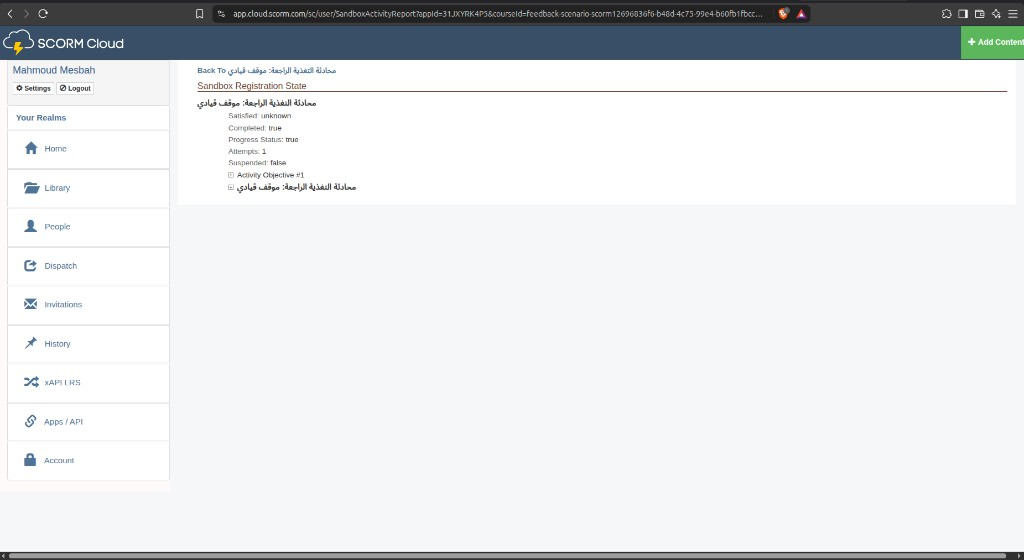
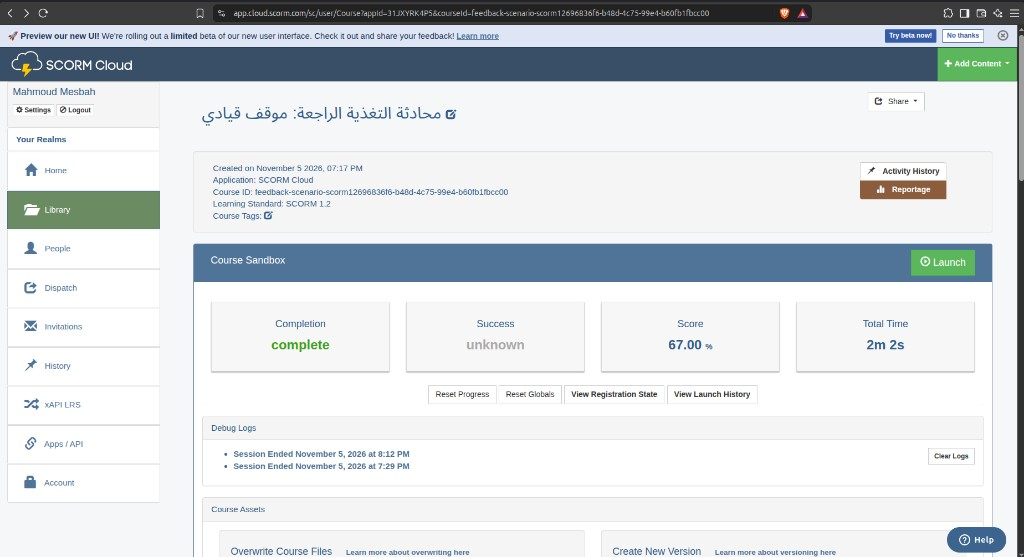
Record the scored SCORM Cloud results.
The feedback run completed at 67 percent, and the safety run failed at 50 percent.

diff --git a/README.md b/README.md
@@ -16,7 +16,7 @@ To run locally, open index.html in a browser. The try links open `feedback-scena
 - `dist/feedback-scenario-scorm12.zip`
 - `dist/safety-challenge-scorm12.zip`
 
-SCORM Cloud was tested with SCORM 1.2 on 5 Nov 2026. The feedback sample should report `completed` plus a score. The safety sample should report `passed` or `failed` against 70. The saved reports are [feedback](media/scorm-feedback-registration.png) (`Completed: true`) and [safety](media/scorm-safety-registration.png) (`Completed: false`, `Satisfied: false`). Neither report shows a score. Moodle is a later check if time allows.
+SCORM Cloud was tested with SCORM 1.2 on 5 Nov 2026. The feedback sample should report `completed` plus a score. The safety sample should report `passed` or `failed` against 70. The saved reports are [feedback](media/scorm-feedback-registration.png) (complete, score 67%) and [safety](media/scorm-safety-registration.png) (failed, score 50%). Moodle is a later check if time allows.
 
 How it was built:
 
@@ -54,7 +54,7 @@ gh release create v1.0 dist/feedback-scenario-scorm12.zip dist/safety-challenge-
 
 يبني `npm run package` الحزمتين `dist/feedback-scenario-scorm12.zip` و`dist/safety-challenge-scorm12.zip`.
 
-تم فحص SCORM Cloud بمعيار SCORM 1.2 في 5 نوفمبر 2026. عينة التغذية الراجعة تُبلّغ `completed` مع درجة. عينة السلامة تُبلّغ `passed` أو `failed` مقابل 70. التقريران المحفوظان: media/scorm-feedback-registration.png (`Completed: true`) وmedia/scorm-safety-registration.png (`Completed: false` و`Satisfied: false`). لا يظهر أي تقرير درجة. Moodle لاحقًا إذا سمح الوقت.
+تم فحص SCORM Cloud بمعيار SCORM 1.2 في 5 نوفمبر 2026. عينة التغذية الراجعة تُبلّغ `completed` مع درجة. عينة السلامة تُبلّغ `passed` أو `failed` مقابل 70. التقريران المحفوظان: media/scorm-feedback-registration.png (مكتمل، الدرجة 67%) وmedia/scorm-safety-registration.png (راسب `failed`، الدرجة 50%). Moodle لاحقًا إذا سمح الوقت.
 
 كيف بُني العمل:
 
